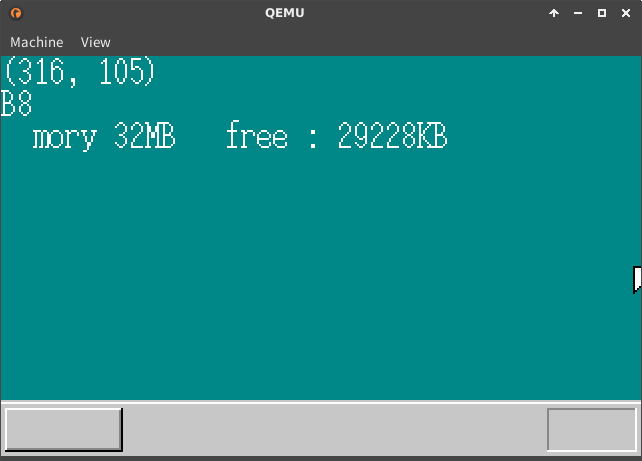
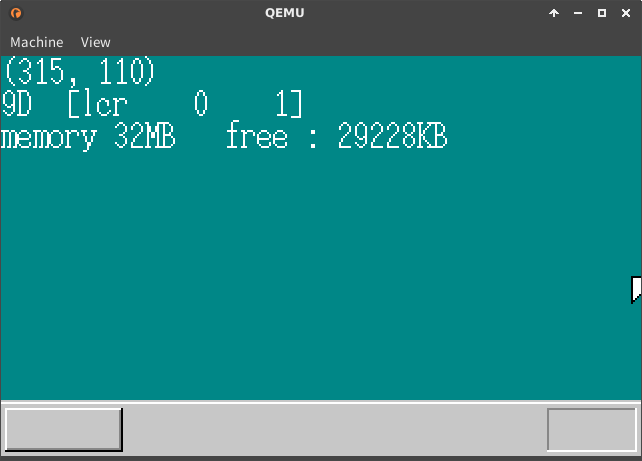
Fixed a all 11

diff --git a/11/11d/c_src/bootpack.c b/11/11d/c_src/bootpack.c
@@ -40,8 +40,9 @@ void HariMain(void) {
   sht_back  = sheet_alloc(shtctl);
   sht_mouse = sheet_alloc(shtctl);
   sht_win   = sheet_alloc(shtctl);
-  buf_back  = (unsigned char *)memman_alloc_4k(memman,
-                                               binfo->scrnx * binfo->scrny);
+  buf_back  = (unsigned char *)memman_alloc_4k(
+                memman, binfo->scrnx * binfo->scrny
+              );
   buf_win   = (unsigned char *)memman_alloc_4k(memman, 160 * 68);
   sheet_setbuf(sht_back, buf_back, binfo->scrnx, binfo->scrny, -1);
   sheet_setbuf(sht_mouse, buf_mouse, 16, 16, 99);
@@ -96,9 +97,9 @@ void HariMain(void) {
           if ((mdec.btn & 0x04) != 0) {
             s[2] = 'C';
           }
-          boxfill8(buf_mouse, binfo->scrnx, COL8_008484,
+          boxfill8(buf_back, binfo->scrnx, COL8_008484,
                    32, 16, 32 + 15 * 8 -1, 31);
-          putfonts8_asc(buf_mouse, binfo->scrnx, 32, 16, COL8_FFFFFF, s);
+          putfonts8_asc(buf_back, binfo->scrnx, 32, 16, COL8_FFFFFF, s);
           boxfill8(binfo->vram, binfo->scrnx, COL8_008484,
                    mx, my, mx + 15, my + 15);
           sheet_refresh(sht_back, 32, 16, 32 + 15 * 8, 32);

diff --git a/11/11a/c_src/bootpack.c b/11/11a/c_src/bootpack.c
@@ -86,9 +86,9 @@ void HariMain(void) {
           if ((mdec.btn & 0x04) != 0) {
             s[2] = 'C';
           }
-          boxfill8(buf_mouse, binfo->scrnx, COL8_008484,
+          boxfill8(buf_back, binfo->scrnx, COL8_008484,
                    32, 16, 32 + 15 * 8 -1, 31);
-          putfonts8_asc(buf_mouse, binfo->scrnx, 32, 16, COL8_FFFFFF, s);
+          putfonts8_asc(buf_back, binfo->scrnx, 32, 16, COL8_FFFFFF, s);
           boxfill8(binfo->vram, binfo->scrnx, COL8_008484,
                    mx, my, mx + 15, my + 15);
           sheet_refresh(shtctl, sht_back, 32, 16, 32 + 15 * 8, 32);

diff --git a/11/11b/c_src/bootpack.c b/11/11b/c_src/bootpack.c
@@ -86,9 +86,9 @@ void HariMain(void) {
           if ((mdec.btn & 0x04) != 0) {
             s[2] = 'C';
           }
-          boxfill8(buf_mouse, binfo->scrnx, COL8_008484,
+          boxfill8(buf_back, binfo->scrnx, COL8_008484,
                    32, 16, 32 + 15 * 8 -1, 31);
-          putfonts8_asc(buf_mouse, binfo->scrnx, 32, 16, COL8_FFFFFF, s);
+          putfonts8_asc(buf_back, binfo->scrnx, 32, 16, COL8_FFFFFF, s);
           boxfill8(binfo->vram, binfo->scrnx, COL8_008484,
                    mx, my, mx + 15, my + 15);
           sheet_refresh(shtctl, sht_back, 32, 16, 32 + 15 * 8, 32);

diff --git a/11/11c/c_src/bootpack.c b/11/11c/c_src/bootpack.c
@@ -86,9 +86,9 @@ void HariMain(void) {
           if ((mdec.btn & 0x04) != 0) {
             s[2] = 'C';
           }
-          boxfill8(buf_mouse, binfo->scrnx, COL8_008484,
+          boxfill8(buf_back, binfo->scrnx, COL8_008484,
                    32, 16, 32 + 15 * 8 -1, 31);
-          putfonts8_asc(buf_mouse, binfo->scrnx, 32, 16, COL8_FFFFFF, s);
+          putfonts8_asc(buf_back, binfo->scrnx, 32, 16, COL8_FFFFFF, s);
           boxfill8(binfo->vram, binfo->scrnx, COL8_008484,
                    mx, my, mx + 15, my + 15);
           sheet_refresh(sht_back, 32, 16, 32 + 15 * 8, 32);
